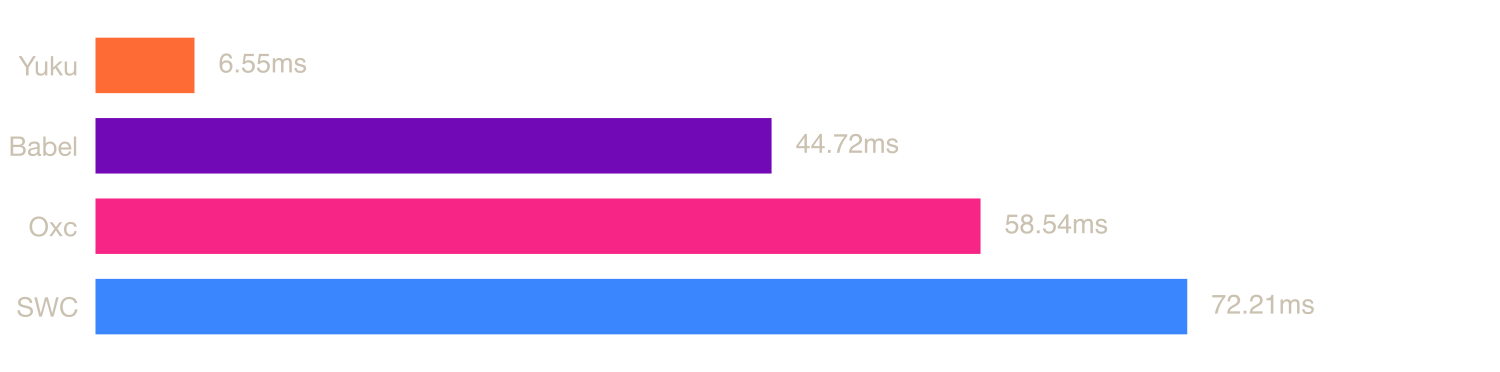
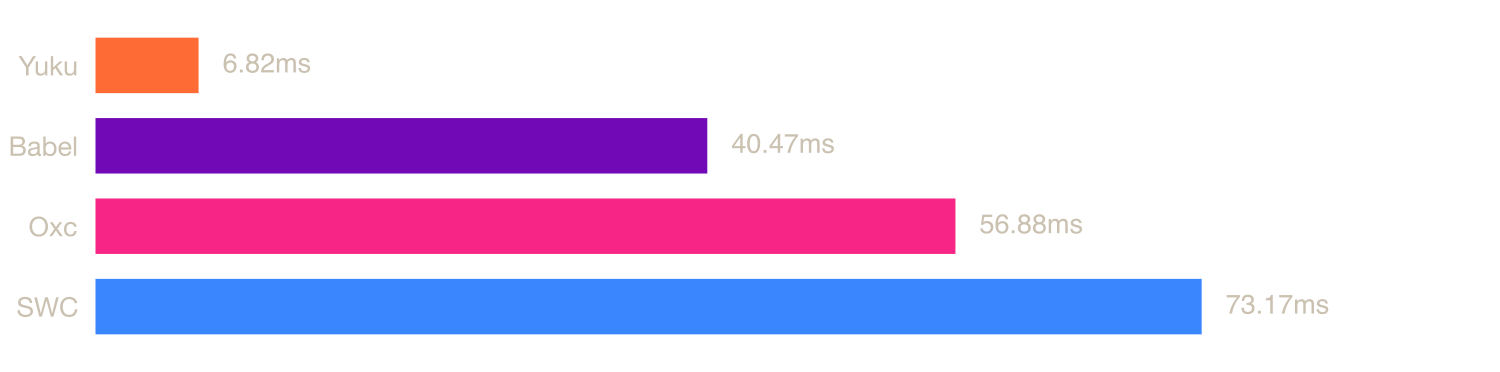
add meriyah

diff --git a/scripts/generate-readme.ts b/scripts/generate-readme.ts
@@ -20,6 +20,12 @@ const PARSERS = {
       "A JavaScript compiler and parser used by the Babel toolchain.",
     url: "https://github.com/babel/babel/tree/main/packages/babel-parser",
   },
+  meriyah: {
+    name: "Meriyah",
+    description:
+      "A 100% compliant, self-hosted JavaScript parser with a high focus on both performance and stability.",
+    url: "https://github.com/meriyah/meriyah",
+  },
   oxc: {
     name: "Oxc",
     description:
@@ -43,6 +49,7 @@ const PARSERS = {
 const CHART_COLORS: Record<string, string> = {
   acorn: "#4CC9F0",
   babel: "#7209B7",
+  meriyah: "#06D6A0",
   oxc: "#F72585",
   swc: "#3A86FF",
   yuku: "#FF6B35",
@@ -51,6 +58,7 @@ const CHART_COLORS: Record<string, string> = {
 const NAME_TO_KEY: Record<string, string> = {
   Acorn: "acorn",
   Babel: "babel",
+  Meriyah: "meriyah",
   Oxc: "oxc",
   SWC: "swc",
   Yuku: "yuku",
@@ -100,6 +108,11 @@ function formatBytes(bytes: number): string {
 
 function formatTime(ms: number): string {
   return `${ms.toFixed(2)} ms`;
+}
+
+function formatOps(meanMs: number): string {
+  const ops = 1000 / meanMs;
+  return `${ops.toFixed(2)} ops/s`;
 }
 
 async function readBenchmarkResults(fileKey: FileKey): Promise<FileResult> {
@@ -225,15 +238,29 @@ async function generateChart(entries: ParserEntry[], chartName: string): Promise
 function generateTable(entries: ParserEntry[]): string {
   const lines: string[] = [];
 
-  lines.push("| Parser | Mean | Min | Max |");
-  lines.push("|--------|------|-----|-----|");
+  const fastest = entries.find((e) => e.result != null)?.result ?? null;
+
+  lines.push("| Parser | Mean | Min | Max | Ops/sec | Relative |");
+  lines.push("|--------|------|-----|-----|---------|----------|");
 
   for (const { name, result } of entries) {
     if (!result) {
-      lines.push(`| ${name} | Failed to parse | - | - |`);
+      lines.push(`| ${name} | Failed to parse | - | - | - | - |`);
       continue;
     }
-    lines.push(`| ${name} | ${formatTime(result.mean)} | ${formatTime(result.min)} | ${formatTime(result.max)} |`);
+    const isFastest = result === fastest;
+    const ratio = fastest ? result.mean / fastest.mean : 1;
+    const relative = isFastest ? "baseline" : `${ratio.toFixed(2)}× slower`;
+    const cells = [
+      name,
+      formatTime(result.mean),
+      formatTime(result.min),
+      formatTime(result.max),
+      formatOps(result.mean),
+      relative,
+    ];
+    const row = isFastest ? cells.map((c) => `**${c}**`).join(" | ") : cells.join(" | ");
+    lines.push(`| ${row} |`);
   }
 
   return lines.join("\n");

diff --git a/scripts/bench.ts b/scripts/bench.ts
@@ -3,6 +3,7 @@ import { join } from "node:path";
 import { Bench } from "tinybench";
 import * as acorn from "acorn";
 import * as babel from "@babel/parser";
+import * as meriyah from "meriyah";
 import * as oxc from "oxc-parser";
 import swc from "@swc/core";
 import type { ParseOptions as SwcParseOptions } from "@swc/types";
@@ -40,6 +41,12 @@ async function benchFile(fileKey: string, file: { path: string; lang: Lang }): P
   if (!isTsx) {
     bench.add("Acorn", () => {
       const { body: _ } = acorn.parse(source, { ecmaVersion: "latest", sourceType: "module" });
+    });
+  }
+
+  if (!isTsx) {
+    bench.add("Meriyah", () => {
+      const { body: _ } = meriyah.parse(source, { sourceType: "module", next: true });
     });
   }
 

diff --git a/README.md b/README.md
@@ -21,6 +21,10 @@ A tiny, fast JavaScript parser, written completely in JavaScript.
 
 A JavaScript compiler and parser used by the Babel toolchain.
 
+### [Meriyah](https://github.com/meriyah/meriyah)
+
+A 100% compliant, self-hosted JavaScript parser with a high focus on both performance and stability.
+
 ### [Oxc](https://github.com/oxc-project/oxc)
 
 A high-performance JavaScript and TypeScript parser written in Rust.
@@ -41,13 +45,14 @@ A high-performance & spec-compliant JavaScript/TypeScript compiler written in Zi
 
 ![Bar chart comparing npm parser speeds for typescript.js](charts/typescript.png)
 
-| Parser | Mean | Min | Max |
-|--------|------|-----|-----|
-| Yuku | 32.70 ms | 30.44 ms | 42.89 ms |
-| Acorn | 150.07 ms | 136.27 ms | 225.13 ms |
-| Babel | 185.05 ms | 153.91 ms | 238.91 ms |
-| Oxc | 272.28 ms | 260.07 ms | 333.32 ms |
-| SWC | 496.69 ms | 458.67 ms | 657.86 ms |
+| Parser | Mean | Min | Max | Ops/sec | Relative |
+|--------|------|-----|-----|---------|----------|
+| **Yuku** | **32.18 ms** | **29.93 ms** | **43.08 ms** | **31.08 ops/s** | **baseline** |
+| Meriyah | 70.22 ms | 61.17 ms | 104.09 ms | 14.24 ops/s | 2.18× slower |
+| Acorn | 138.86 ms | 124.86 ms | 190.39 ms | 7.20 ops/s | 4.32× slower |
+| Babel | 179.30 ms | 146.71 ms | 231.26 ms | 5.58 ops/s | 5.57× slower |
+| Oxc | 277.43 ms | 262.07 ms | 474.87 ms | 3.60 ops/s | 8.62× slower |
+| SWC | 485.65 ms | 462.44 ms | 574.26 ms | 2.06 ops/s | 15.09× slower |
 
 ### [calcom.tsx](https://raw.githubusercontent.com/yuku-toolchain/parser-benchmark-files/refs/heads/main/calcom.tsx)
 
@@ -55,13 +60,14 @@ A high-performance & spec-compliant JavaScript/TypeScript compiler written in Zi
 
 ![Bar chart comparing npm parser speeds for calcom.tsx](charts/calcom.png)
 
-| Parser | Mean | Min | Max |
-|--------|------|-----|-----|
-| Yuku | 6.55 ms | 5.78 ms | 54.35 ms |
-| Babel | 44.72 ms | 32.16 ms | 123.01 ms |
-| Oxc | 58.54 ms | 54.45 ms | 91.28 ms |
-| SWC | 72.21 ms | 68.08 ms | 126.57 ms |
-| Acorn | Failed to parse | - | - |
+| Parser | Mean | Min | Max | Ops/sec | Relative |
+|--------|------|-----|-----|---------|----------|
+| **Yuku** | **6.82 ms** | **5.76 ms** | **31.67 ms** | **146.68 ops/s** | **baseline** |
+| Babel | 40.47 ms | 32.98 ms | 49.34 ms | 24.71 ops/s | 5.94× slower |
+| Oxc | 56.88 ms | 54.49 ms | 63.65 ms | 17.58 ops/s | 8.34× slower |
+| SWC | 73.17 ms | 68.06 ms | 117.27 ms | 13.67 ops/s | 10.73× slower |
+| Acorn | Failed to parse | - | - | - | - |
+| Meriyah | Failed to parse | - | - | - | - |
 
 ### [react.js](https://raw.githubusercontent.com/yuku-toolchain/parser-benchmark-files/refs/heads/main/react.js)
 
@@ -69,13 +75,14 @@ A high-performance & spec-compliant JavaScript/TypeScript compiler written in Zi
 
 ![Bar chart comparing npm parser speeds for react.js](charts/react.png)
 
-| Parser | Mean | Min | Max |
-|--------|------|-----|-----|
-| Yuku | 0.25 ms | 0.21 ms | 5.86 ms |
-| Acorn | 1.02 ms | 0.94 ms | 9.46 ms |
-| Oxc | 1.56 ms | 1.48 ms | 7.15 ms |
-| Babel | 1.61 ms | 1.17 ms | 18.15 ms |
-| SWC | 2.93 ms | 2.76 ms | 45.60 ms |
+| Parser | Mean | Min | Max | Ops/sec | Relative |
+|--------|------|-----|-----|---------|----------|
+| **Yuku** | **0.25 ms** | **0.21 ms** | **6.51 ms** | **4031.08 ops/s** | **baseline** |
+| Meriyah | 0.53 ms | 0.42 ms | 16.97 ms | 1897.67 ops/s | 2.12× slower |
+| Acorn | 1.01 ms | 0.93 ms | 20.67 ms | 990.06 ops/s | 4.07× slower |
+| Oxc | 1.56 ms | 1.50 ms | 7.78 ms | 641.47 ops/s | 6.28× slower |
+| Babel | 1.57 ms | 1.15 ms | 8.15 ms | 636.35 ops/s | 6.33× slower |
+| SWC | 2.90 ms | 2.77 ms | 8.41 ms | 344.84 ops/s | 11.69× slower |
 
 ## Run Benchmarks
 